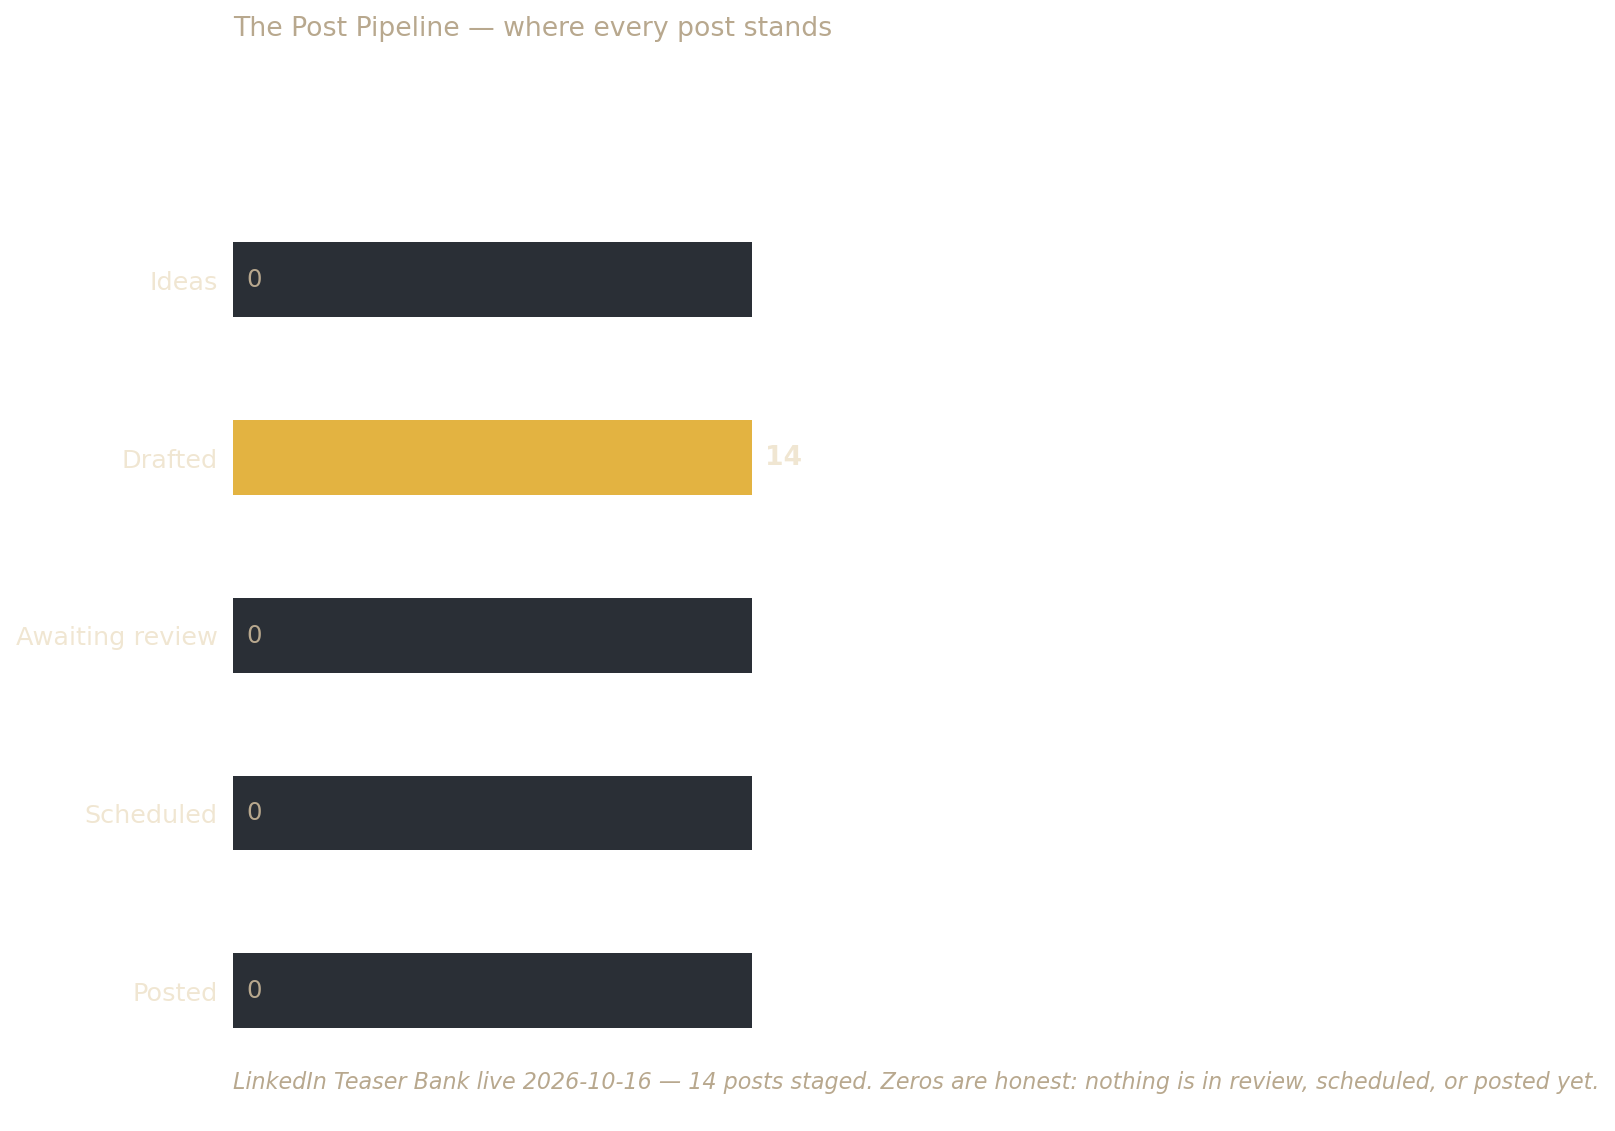
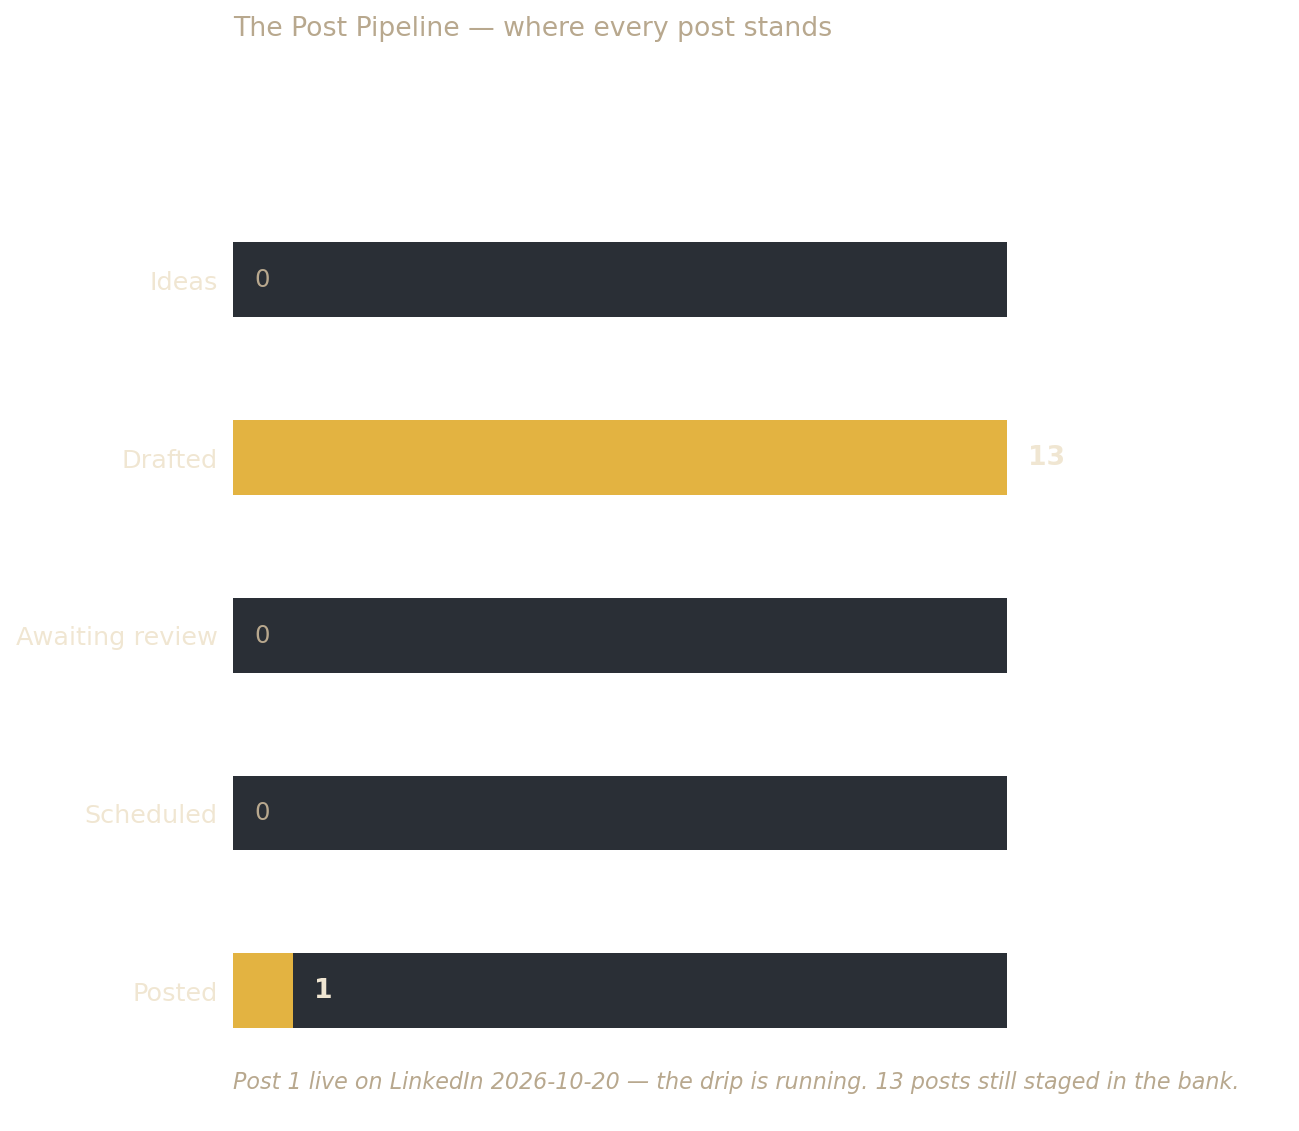
Social Media Buddy: LinkedIn Makeover report on homepage; Post 1 live (pipeline 13 drafted / 1 posted, chart regenerated)

diff --git a/social-media-buddy/index.html b/social-media-buddy/index.html
@@ -158,17 +158,30 @@ body {
 </div>
 
 <div class="card">
+<h2>🔗 LinkedIn Makeover — the report</h2>
+<p><strong>Post 1 is live.</strong> <a href="https://www.linkedin.com/feed/update/urn:li:share:7518441470295457793/" style="color:var(--accent);">The 40-year arc</a> posted Tue 2026-10-20. First check: <strong>37 impressions</strong>, 0 reactions, 0 comments — early hours. An engagement watch checks every 3 hours through Nov 2; any comment gets a drafted reply in Dave's voice for his approval. Nothing ever replies itself.</p>
+<p><strong>The audit (2026-10-20).</strong> The audience is real: <strong>5,309 followers</strong>, 500+ connections, 15 recommendations received. Present: photo, banner, 48 skills. Missing: a Featured section (absent entirely), Rae Technology 1992–96 (the company behind Post 1's story isn't on the profile at all), and any trace of the Buddy System. Headline today: just “UX &amp; Product Designer.” The posts tell a story the profile doesn't — yet.</p>
+<p><strong>The plan.</strong> New headline (three options in the brief), a first-person About that opens “I've been building the same product for 40 years,” a new banner art-directed by 🖼 <a href="https://davedellaquila.github.io/buddy-system/art-director-buddy/" style="color:var(--accent);">Art Director</a>, Featured section added, Rae Technology + Buddy System experience entries, creator mode on, skills pruned. One open decision is Dave's: Open to Work is currently public — keep, narrow, or drop. Target: the new profile live by <strong>Tue 2026-10-27</strong>, so the Money Buddy posts land on it.</p>
+<div class="linkgrid">
+<a href="https://docs.google.com/document/d/1JGPNIxEE5JAsUVc-sv2R3Pro-U3pM77xJd-bdj3Wgjc/edit">Makeover brief</a>
+<a href="https://muse.ai/chat/0d3d7dd9-0c97-46cf-accd-8d7f9c6b177d">Project thread</a>
+<a href="https://github.com/davedellaquila/linkedin-makeover">Project repo</a>
+<a href="https://www.linkedin.com/in/davedellaquila/">Dave's profile</a>
+</div>
+</div>
+
+<div class="card">
 <h2>📮 Post queue</h2>
-<p class="muted">The LinkedIn Teaser Bank, live as a pipeline. Fourteen posts staged, proposed drip Tue 2026-10-20 → Mon 2026-11-02, LinkedIn first.</p>
+<p class="muted">The LinkedIn Teaser Bank, live as a pipeline. The drip is running — Post 1 posted Tue 2026-10-20, one a day through Mon 2026-11-02, LinkedIn first.</p>
 <div class="pipe">
 <div class="stage"><div class="n">0</div><div class="lbl">Ideas</div></div><div class="pipe-arrow">→</div>
-<div class="stage hot"><div class="n">14</div><div class="lbl">Drafted</div></div><div class="pipe-arrow">→</div>
+<div class="stage hot"><div class="n">13</div><div class="lbl">Drafted</div></div><div class="pipe-arrow">→</div>
 <div class="stage"><div class="n">0</div><div class="lbl">Awaiting<br>review</div></div><div class="pipe-arrow">→</div>
 <div class="stage"><div class="n">0</div><div class="lbl">Scheduled</div></div><div class="pipe-arrow">→</div>
-<div class="stage"><div class="n">0</div><div class="lbl">Posted</div></div>
+<div class="stage"><div class="n">1</div><div class="lbl">Posted</div></div>
 </div>
 <ul class="qlist">
-<li><span class="date">Tue 10-20</span><span class="t">The 40-year arc</span><span class="chip lead">Lead</span><span class="chip">Approved</span></li>
+<li><span class="date">Tue 10-20</span><span class="t">The 40-year arc</span><span class="chip lead">Lead</span><span class="chip">Posted ✓</span></li>
 <li><span class="date">Wed 10-21</span><span class="t">The Knowledge Navigator</span><span class="chip">Approved</span></li>
 <li><span class="date">Thu 10-22</span><span class="t">Rae Assist, 1993</span><span class="chip">Approved</span></li>
 <li><span class="date">Fri 10-23</span><span class="t">The fall</span><span class="chip">Approved</span></li>
@@ -183,14 +196,14 @@ body {
 <li><span class="date">Sun 11-01</span><span class="t">The staff grows</span><span class="chip">Approved</span></li>
 <li><span class="date">Mon 11-02</span><span class="t">The tip jar</span><span class="chip hold">Hold · Ko-fi</span></li>
 </ul>
-<p class="muted" style="margin-top:10px;font-size:13px;"><strong style="color:var(--accent);">All 14 approved by Dave 2026-10-16.</strong> Scheduling on hold until the open questions (handle, cadence, Penny’s consent, Ko-fi, first-post date) are resolved.<br>Full post texts live in the <a href="https://docs.google.com/document/d/1-tPJ-a_aHb6OnP3KtQyXgjB0GASdkuIol_YUrGTaYL8/edit" style="color:var(--accent);">LinkedIn Teaser Bank</a> (Buddy Docs).</p>
+<p class="muted" style="margin-top:10px;font-size:13px;"><strong style="color:var(--accent);">All 14 approved by Dave 2026-10-16 — and the drip is live.</strong> Dave posts each day's staged copy himself (copy staged + visual emailed each morning). Post 5 stays held for Penny's consent; Post 14 for the Ko-fi link.<br>Full post texts live in the <a href="https://docs.google.com/document/d/1-tPJ-a_aHb6OnP3KtQyXgjB0GASdkuIol_YUrGTaYL8/edit" style="color:var(--accent);">LinkedIn Teaser Bank</a> (Buddy Docs).</p>
 </div>
 
 <div class="card">
 <h2>📊 The Post Pipeline</h2>
 <picture>
 <source srcset="pipeline-dark.png" media="(prefers-color-scheme: dark)">
-<img class="chartimg" src="pipeline-light.png" alt="The Post Pipeline — funnel of live post counts per stage: Ideas 0, Drafted 14, Awaiting review 0, Scheduled 0, Posted 0">
+<img class="chartimg" src="pipeline-light.png" alt="The Post Pipeline — funnel of live post counts per stage: Ideas 0, Drafted 13, Awaiting review 0, Scheduled 0, Posted 1">
 </picture>
 <p class="muted" style="margin-top:10px;font-size:13px;">Built by 📊 Charts Buddy in the Kin chart language from real queue counts. Regenerates as posts move through the pipeline.</p>
 </div>
@@ -202,6 +215,7 @@ body {
 <a href="https://docs.google.com/document/d/1myGzxngZjRjXy8v3BTbeHkgr_kDTotEz4v6bHJIq5Fw/edit">Rollout plan</a>
 <a href="https://docs.google.com/document/d/1O8H3oRyF4k_1rEfym7p_OLpiTKJHJmQF1PfW2aByS3U/edit">Rollout brief</a>
 <a href="https://docs.google.com/document/d/1-tPJ-a_aHb6OnP3KtQyXgjB0GASdkuIol_YUrGTaYL8/edit">Teaser bank</a>
+<a href="https://docs.google.com/document/d/1JGPNIxEE5JAsUVc-sv2R3Pro-U3pM77xJd-bdj3Wgjc/edit">LinkedIn Makeover brief</a>
 <a href="https://github.com/davedellaquila/social-media-buddy">Repo</a>
 </div>
 </div>

diff --git a/CHANGELOG.md b/CHANGELOG.md
@@ -1,4 +1,9 @@
 ## 2026-10-20
+### Social Media Buddy homepage: LinkedIn Makeover report + Post 1 live
+- New "🔗 LinkedIn Makeover — the report" card on Social Media Buddy's homepage: Post 1 live on LinkedIn (37 impressions at first check, engagement watch every 3h), the 2026-10-20 profile audit (5,309 followers; Featured absent; Rae Technology missing), and the makeover plan with links to the brief, project thread, repo, and Dave's profile.
+- Post queue brought current: Post 1 chip → "Posted ✓", pipeline counts Drafted 14→13 / Posted 0→1, stale "scheduling on hold" note replaced (the drip is live; Dave posts each day's staged copy).
+- Post Pipeline chart regenerated (Charts Buddy's social_pipeline.py, counts verified 2026-10-20) in both themes.
+
 ### Custom homepage is the homepage; the default page is now the About page (Dave 2026-10-20)
 - Dave's model, first applied to Zen Buddy: the designed custom homepage serves as the buddy's actual homepage (index.html), and the Default Homepage (the Dossier) moves to `<id>/about.html` as the buddy's About page — linked from the custom homepage (sticky header + footer) and from every template homepage's footer ("About · the full record").
 - `gen_default_homepages.py` v3.2: new `--about` mode writes about.html without touching index.html. Every default/About page now also carries the COMPLETE registry record (every field; unset fields shown as "not set") and a "From the repo — markdown files (N)" section: a baked inventory from the buddy's local repo clone plus the live, token-gated 📄 Repo files reader (gen_basic's FILES_* widget) — repo markdown is read from GitHub on Dave's devices, never baked raw into the public page. Also hardened: string attention/docs entries no longer crash the build (one buddy stores them as plain strings).
